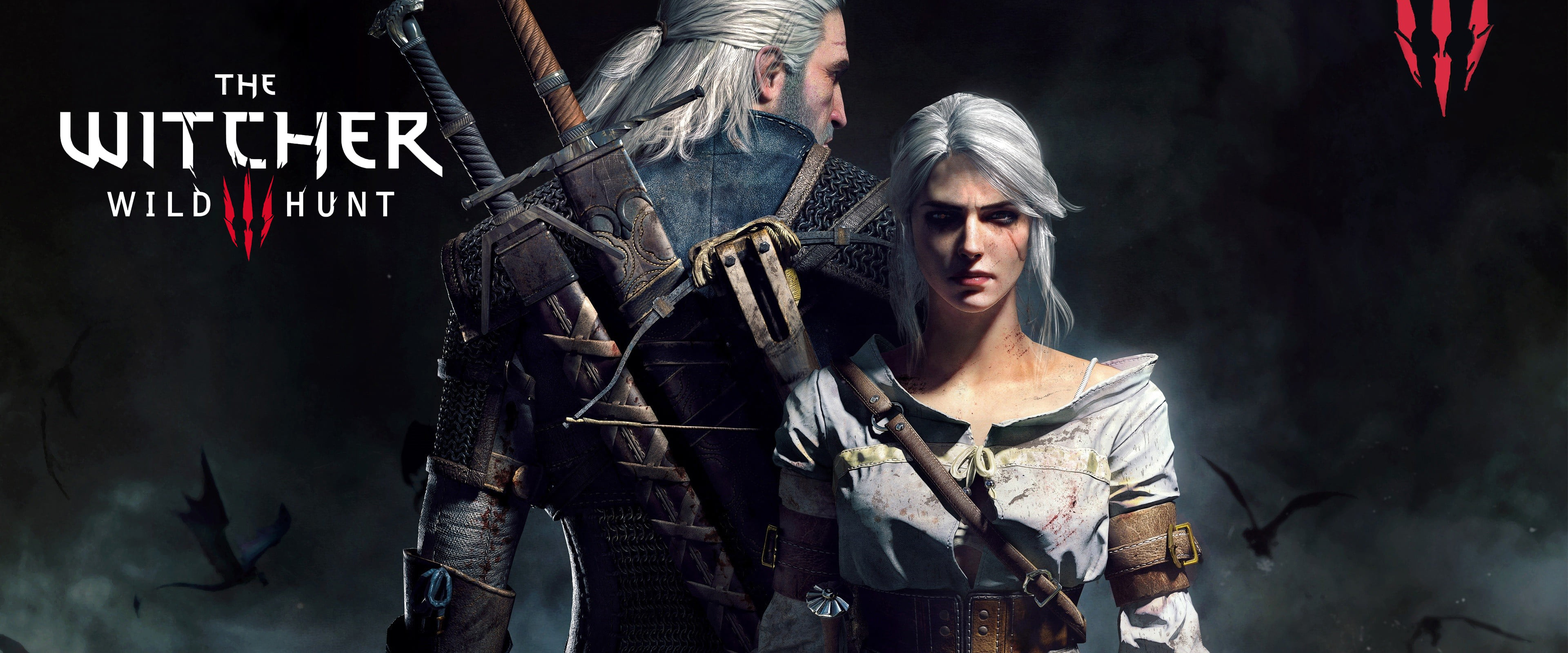
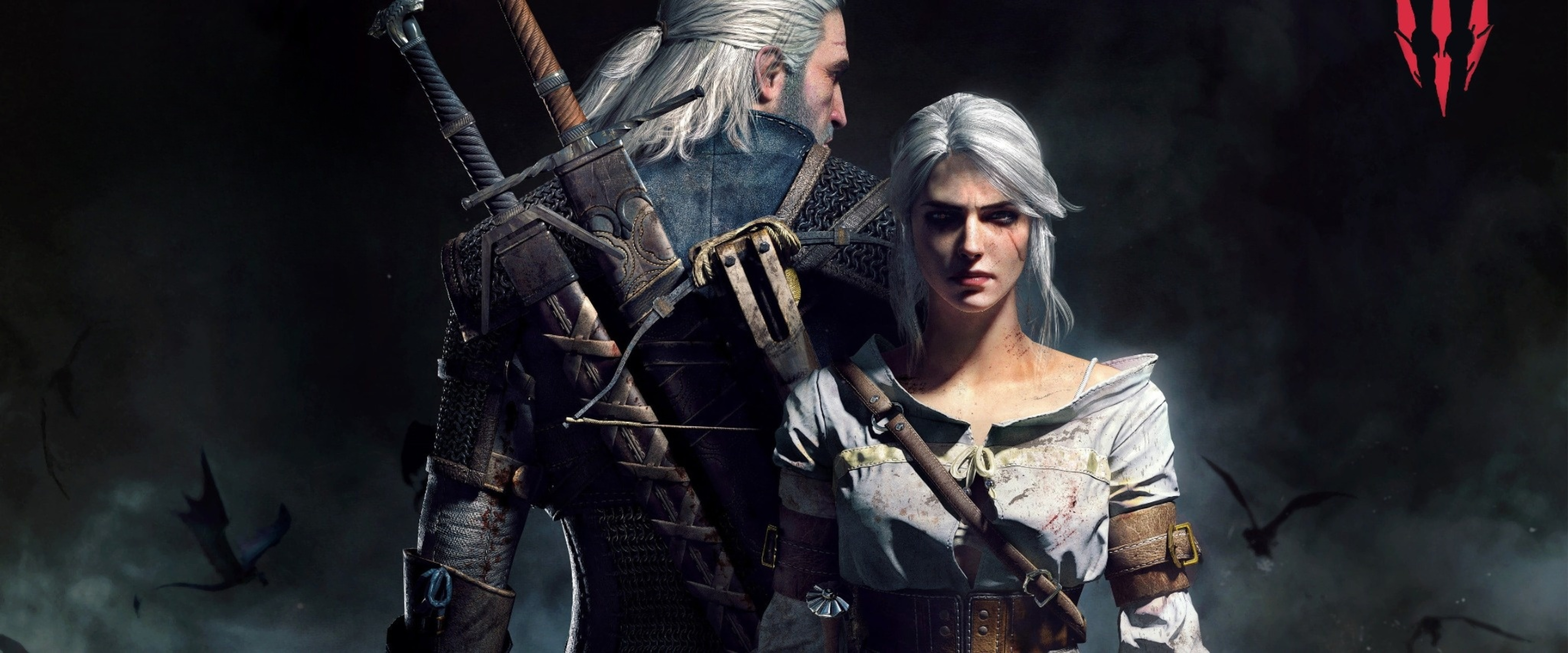
add some visual improvements

diff --git a/client/src/components/features/Carousel/Carousel.js b/client/src/components/features/Carousel/Carousel.js
@@ -15,11 +15,21 @@ const CarouselComponent = () => {
   return (
     <Carousel className={styles.carousel} controls={false}>
       <Carousel.Item>
-        <img
-          className={`d-block w-100 ${styles.carouselItem}`}
-          src={SLIDER_IMAGES_URL + 'TheWitcher.jpg'}
-          alt="TheWitcher.jpg"
-        />
+        <picture>
+          <source
+            media="(max-width: 910px)"
+            srcSet={`${SLIDER_IMAGES_URL}TheWitcher_tablet.jpg`}
+          />
+          <source
+            media="(min-width: 911px)"
+            srcSet={`${SLIDER_IMAGES_URL}TheWitcher.jpg`}
+          />
+          <img
+            className={`d-block w-100 ${styles.carouselItem}`}
+            src={`${SLIDER_IMAGES_URL}TheWitcher.jpg`}
+            alt="TheWitcher.jpg"
+          />
+        </picture>
         <Carousel.Caption>
           <h5>Wiedźmin 3</h5>
           <Button
@@ -32,11 +42,21 @@ const CarouselComponent = () => {
       </Carousel.Item>
 
       <Carousel.Item>
-        <img
-          className={`d-block w-100 ${styles.carouselItem}`}
-          src={SLIDER_IMAGES_URL + 'assassinsCreed.jpg'}
-          alt="assassinsCreed.jpg"
-        />
+        <picture>
+          <source
+            media="(max-width: 774px)"
+            srcSet={`${SLIDER_IMAGES_URL}assassinsCreed_tablet.jpg`}
+          />
+          <source
+            media="(min-width: 775px)"
+            srcSet={`${SLIDER_IMAGES_URL}assassinsCreed.jpg`}
+          />
+          <img
+            className={`d-block w-100 ${styles.carouselItem}`}
+            src={SLIDER_IMAGES_URL + 'assassinsCreed.jpg'}
+            alt="assassinsCreed.jpg"
+          />
+        </picture>
         <Carousel.Caption>
           <h5>Assassins Creed</h5>
           <Button
@@ -49,11 +69,21 @@ const CarouselComponent = () => {
       </Carousel.Item>
 
       <Carousel.Item>
-        <img
-          className={`d-block w-100 ${styles.carouselItem}`}
-          src={SLIDER_IMAGES_URL + 'RDR2.jpg'}
-          alt="RDR2.jpg"
-        />
+        <picture>
+          <source
+            media="(max-width: 850px)"
+            srcSet={`${SLIDER_IMAGES_URL}RDR2_tablet.jpg`}
+          />
+          <source
+            media="(min-width: 851px)"
+            srcSet={`${SLIDER_IMAGES_URL}RDR2.jpg`}
+          />
+          <img
+            className={`d-block w-100 ${styles.carouselItem}`}
+            src={SLIDER_IMAGES_URL + 'RDR2.jpg'}
+            alt="RDR2.jpg"
+          />
+        </picture>
         <Carousel.Caption>
           <h5>Red Dead Redemption 2</h5>
           <Button

diff --git a/client/src/components/features/SelectedProduct/components/SelectedProductForm.js b/client/src/components/features/SelectedProduct/components/SelectedProductForm.js
@@ -6,12 +6,21 @@ import 'react-image-gallery/styles/css/image-gallery.css';
 import './ImageGallery.css';
 import { generateImageList } from '../../../../Utils/generateImageList';
 import { Button } from 'react-bootstrap';
-import { useDispatch } from 'react-redux';
-import { addProductToCart } from '../../../../redux/cart/cartActions';
+import { useDispatch, useSelector } from 'react-redux';
+import {
+  addProductToCart,
+  decreaseProductQuantityInCart,
+  increaseProductQuantityInCart,
+} from '../../../../redux/cart/cartActions';
+import { getCartProductQuantity } from '../../../../redux/cart/cartSelectors';
 
 const SelectedProductForm = ({ data }) => {
   const dispatch = useDispatch();
   const images = generateImageList(data);
+
+  const cartProductQuantity = useSelector((state) =>
+    getCartProductQuantity(state, data.id),
+  );
 
   const handleAddToCart = (e) => {
     e.preventDefault();
@@ -73,6 +82,26 @@ const SelectedProductForm = ({ data }) => {
         >
           Add to cart
         </Button>
+
+        <div className={styles.inputBox}>
+          <Button
+            size="sm"
+            onClick={() => dispatch(decreaseProductQuantityInCart(data.id))}
+          >
+            -
+          </Button>
+
+          <span className={styles.cartQuantity}>
+            {cartProductQuantity ? cartProductQuantity : '0'}
+          </span>
+
+          <Button
+            size="sm"
+            onClick={() => dispatch(increaseProductQuantityInCart(data.id))}
+          >
+            +
+          </Button>
+        </div>
       </div>
     </div>
   );

diff --git a/client/src/components/layout/ProductThumb/ProductThumb.module.scss b/client/src/components/layout/ProductThumb/ProductThumb.module.scss
@@ -50,7 +50,7 @@
   .cardImg {
     background-color: $color-background-lightest;
     border-radius: $radius;
-    height: 55%;
+    height: 50%;
     text-align: center;
     padding: 10px;
     margin: 10px;
@@ -65,7 +65,7 @@
   .cardBody {
     margin: 10px;
     display: flex;
-    height: 27%;
+    height: 32%;
     flex-direction: column;
     justify-content: space-between;
 
@@ -332,5 +332,67 @@
 
   .noInSwiper {
     margin: 10px 5px;
+  }
+}
+
+@media (max-width: 467px) {
+  .card {
+    width: 250px;
+    height: 400px;
+
+    .cardImg {
+      height: 50%;
+      padding: 10px 0;
+      margin: 10px;
+    }
+
+    .cardBody {
+      height: 32%;
+
+      .cardTitle {
+        font-size: $large-size;
+        margin: 0 0 10px 0;
+      }
+
+      .priceBox {
+        font-size: $medium-size;
+
+        .cardSalePrice {
+          font-size: $extra-large-size;
+        }
+      }
+
+      .inStockBox {
+        .stockBarContainer {
+          height: 10px;
+        }
+      }
+
+      .buttons {
+        .cartButton {
+          font-size: $medium-size;
+        }
+
+        .cartQuantity {
+          font-size: $medium-size;
+        }
+
+        .showMoreplaystation {
+          font-size: $medium-size;
+        }
+
+        .showMorexbox {
+          font-size: $medium-size;
+        }
+
+        .showMorenintendo {
+          font-size: $medium-size;
+        }
+
+        .showMorewindows {
+          font-size: $medium-size;
+        }
+      }
+    }
   }
 }

diff --git a/client/src/components/features/SelectedProduct/components/SelectedProductForm.module.scss b/client/src/components/features/SelectedProduct/components/SelectedProductForm.module.scss
@@ -57,5 +57,73 @@
     .addToCartButton {
       width: 100%;
     }
+
+    .inputBox {
+      display: flex;
+      flex-direction: row;
+      justify-content: center;
+      align-items: center;
+      margin-top: 20px;
+
+      & > button {
+        margin: 0 10px;
+      }
+
+      .cartQuantity {
+        text-align: center;
+        padding: 0 15px;
+        border: 2px solid $color-border;
+        border-radius: $radius;
+      }
+    }
+  }
+}
+
+@media (max-width: 991px) {
+  .container {
+    .productBox {
+      .productPictures {
+        max-width: 350px;
+      }
+      .productInfo {
+        margin-top: 20px;
+      }
+    }
+
+    .productPrice .priceBox {
+      flex-direction: column;
+    }
+  }
+}
+
+@media (max-width: 574px) {
+  .container {
+    flex-direction: column;
+    align-items: center;
+
+    .productBox {
+      border-right: none;
+      flex-direction: column;
+      align-items: center;
+
+      .productPictures {
+        max-width: 400px;
+      }
+    }
+
+    .productPrice .priceBox {
+      align-items: center;
+      flex-direction: column;
+    }
+  }
+}
+
+@media (max-width: 450px) {
+  .container {
+    .productBox {
+      .productPictures {
+        max-width: 300px;
+      }
+    }
   }
 }

diff --git a/client/src/components/features/Carousel/Carousel.module.scss b/client/src/components/features/Carousel/Carousel.module.scss
@@ -7,6 +7,7 @@
     height: 70vh;
     min-height: 300px;
     object-fit: cover;
+    object-position: top;
   }
 
   h5 {

diff --git a/client/src/components/features/SelectedProduct/components/ImageGallery.css b/client/src/components/features/SelectedProduct/components/ImageGallery.css
@@ -35,5 +35,9 @@
 }
 
 
+@media (max-width: 674px) {
+
+}
+
 
 
